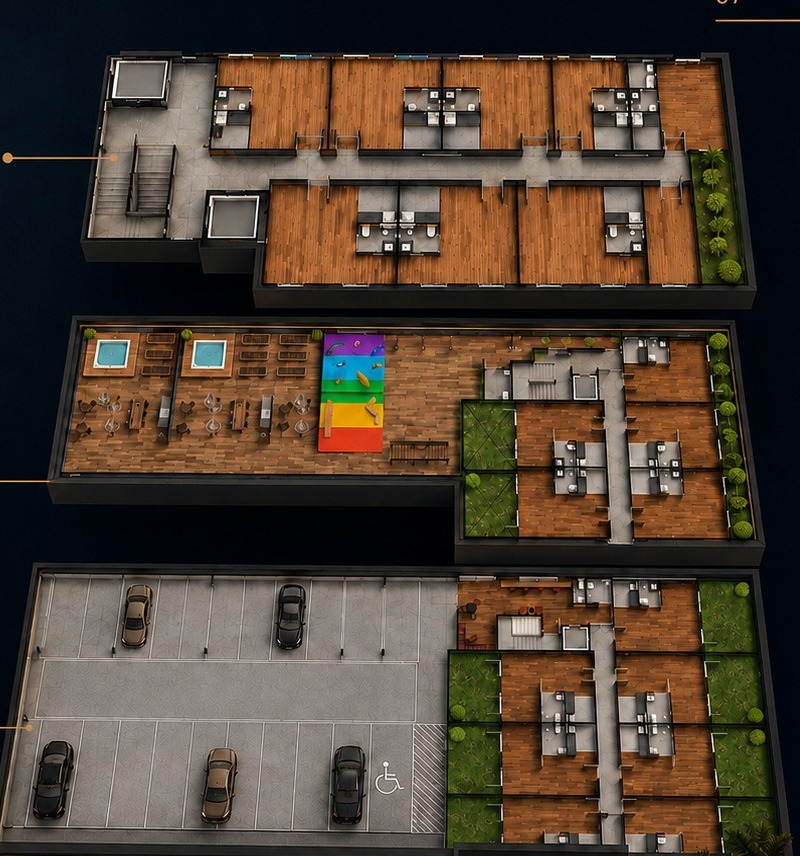
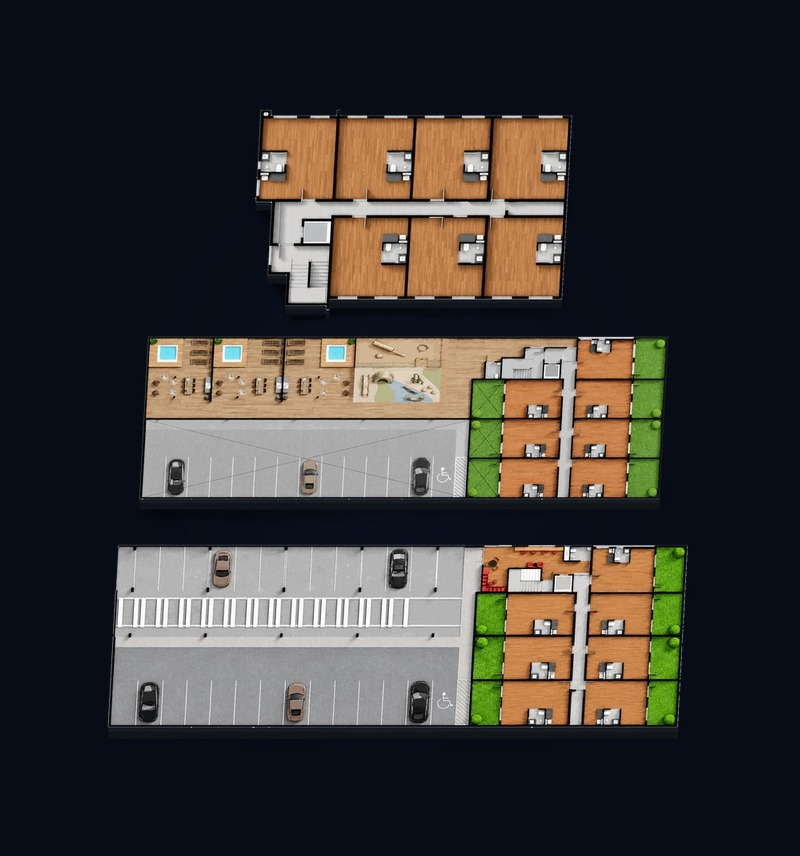
terceira solicitação de ajuste

diff --git a/src/components/sections/Pavimentos.tsx b/src/components/sections/Pavimentos.tsx
@@ -7,6 +7,21 @@ import { Reveal, GoldLine, ImgNote } from "../ui/Reveal";
 
 const EASE = [0.16, 1, 0.3, 1] as const;
 
+/**
+ * O zoom de cada aba é próprio, não mais 1.6 para todos.
+ *
+ * A moldura tem proporção 800x856, então a janela visível no zoom Z fica com
+ * 800/Z de largura. Com 1.6 para todos isso dava 500 px — mais estreito que a
+ * laje do térreo e a do 1º, que por isso apareciam cortadas nas laterais. Aqui
+ * cada valor respeita a largura da sua laje na imagem:
+ *
+ *     pav. tipo   318 px  ->  cabe até 2,52   (usando 1,95)
+ *     1º pav.     530 px  ->  cabe até 1,51   (usando 1,42)
+ *     térreo      581 px  ->  cabe até 1,38   (usando 1,30)
+ *
+ * E o ty centraliza a laje: ty = -scale * (centro - 0,5) * 100, com o centro
+ * medido na imagem (0,250 / 0,494 / 0,749 da altura).
+ */
 const floors = [
   {
     id: "geral",
@@ -21,24 +36,24 @@ const floors = [
     label: "Pav. tipo",
     title: "Pavimentos 2 ao 8",
     text: "Unidades inteligentes para o seu ritmo — finais 1 a 7 em cada pavimento.",
-    scale: 1.6,
-    ty: 48,
+    scale: 1.95,
+    ty: 48.8,
   },
   {
     id: "primeiro",
     label: "1º pavimento",
     title: "Lazer e bem-estar",
     text: "Lazer panorâmico com SPA, churrasqueira e brinquedoteca, além das unidades 101 a 107.",
-    scale: 1.6,
-    ty: 3,
+    scale: 1.42,
+    ty: 0.9,
   },
   {
     id: "terreo",
     label: "Térreo",
     title: "Chegada e conveniência",
     text: "Garagens, recepção com acesso em 2 etapas e unidades garden.",
-    scale: 1.6,
-    ty: -46,
+    scale: 1.3,
+    ty: -32.4,
   },
 ];
 
@@ -69,8 +84,13 @@ export default function Pavimentos() {
                   animate={{ scale: f.scale, y: `${f.ty}%` }}
                   transition={{ duration: 1.1, ease: EASE }}
                 >
+                  {/* O sufixo -v2 no nome não é enfeite: a URL do otimizador de
+                      imagem do Next é /_next/image?url=<caminho>, ou seja, a
+                      chave do cache é o caminho. Trocando só o conteúdo do
+                      arquivo, navegador e CDN continuam servindo a versão
+                      antiga. Mudar o nome é o que invalida o cache. */}
                   <Image
-                    src="/img/pavimentos.jpg"
+                    src="/img/pavimentos-v2.jpg"
                     alt="Vista isométrica dos pavimentos do SMARTER by i5 stay"
                     fill
                     sizes="(max-width: 1024px) 100vw, 55vw"

diff --git a/src/components/ui/Logo.tsx b/src/components/ui/Logo.tsx
@@ -1,41 +1,30 @@
 import Image from "next/image";
 
+/**
+ * Marca oficial: SMARTER com "by i5 stay" abaixo, na arte enviada pelo cliente.
+ *
+ * O lockup é empilhado e largo (2,57:1), então quem manda aqui é a altura — a
+ * largura vem sozinha. No cabeçalho ela encolhe um pouco quando a página rola,
+ * para a barra ficar mais discreta.
+ */
 export function Logo({
-  className = "",
+  className,
   compact = false,
 }: {
+  /** sobrescreve a altura padrão, ex.: "h-12 sm:h-14" no rodapé */
   className?: string;
   compact?: boolean;
 }) {
+  const height = className ?? (compact ? "h-8 sm:h-9" : "h-10 sm:h-11");
+
   return (
-    <span className={`flex items-center gap-3 ${className}`}>
-      <span className="flex flex-col leading-none">
-        <span className="font-display text-[1.15rem] font-light tracking-[0.3em] text-bone sm:text-[1.3rem]">
-          SMARTER
-        </span>
-        {!compact && (
-          <span className="mt-1 text-[0.56rem] font-light uppercase tracking-[0.3em] text-gold-300/80">
-            Águas Claras
-          </span>
-        )}
-      </span>
-      <span className="h-7 w-px bg-gradient-to-b from-transparent via-gold-400/50 to-transparent" />
-      <span className="flex items-center gap-1.5">
-        <span className="text-[0.6rem] font-light uppercase tracking-[0.2em] text-muted">
-          by
-        </span>
-        <Image
-          src="/img/i5-mark.png"
-          alt="i5"
-          width={97}
-          height={114}
-          priority
-          className="h-6 w-auto"
-        />
-        <span className="text-[0.6rem] font-light uppercase tracking-[0.22em] text-muted">
-          stay
-        </span>
-      </span>
-    </span>
+    <Image
+      src="/img/logo-smarter.png"
+      alt="SMARTER by i5 stay"
+      width={906}
+      height={352}
+      priority
+      className={`w-auto transition-all duration-500 ${height}`}
+    />
   );
 }
